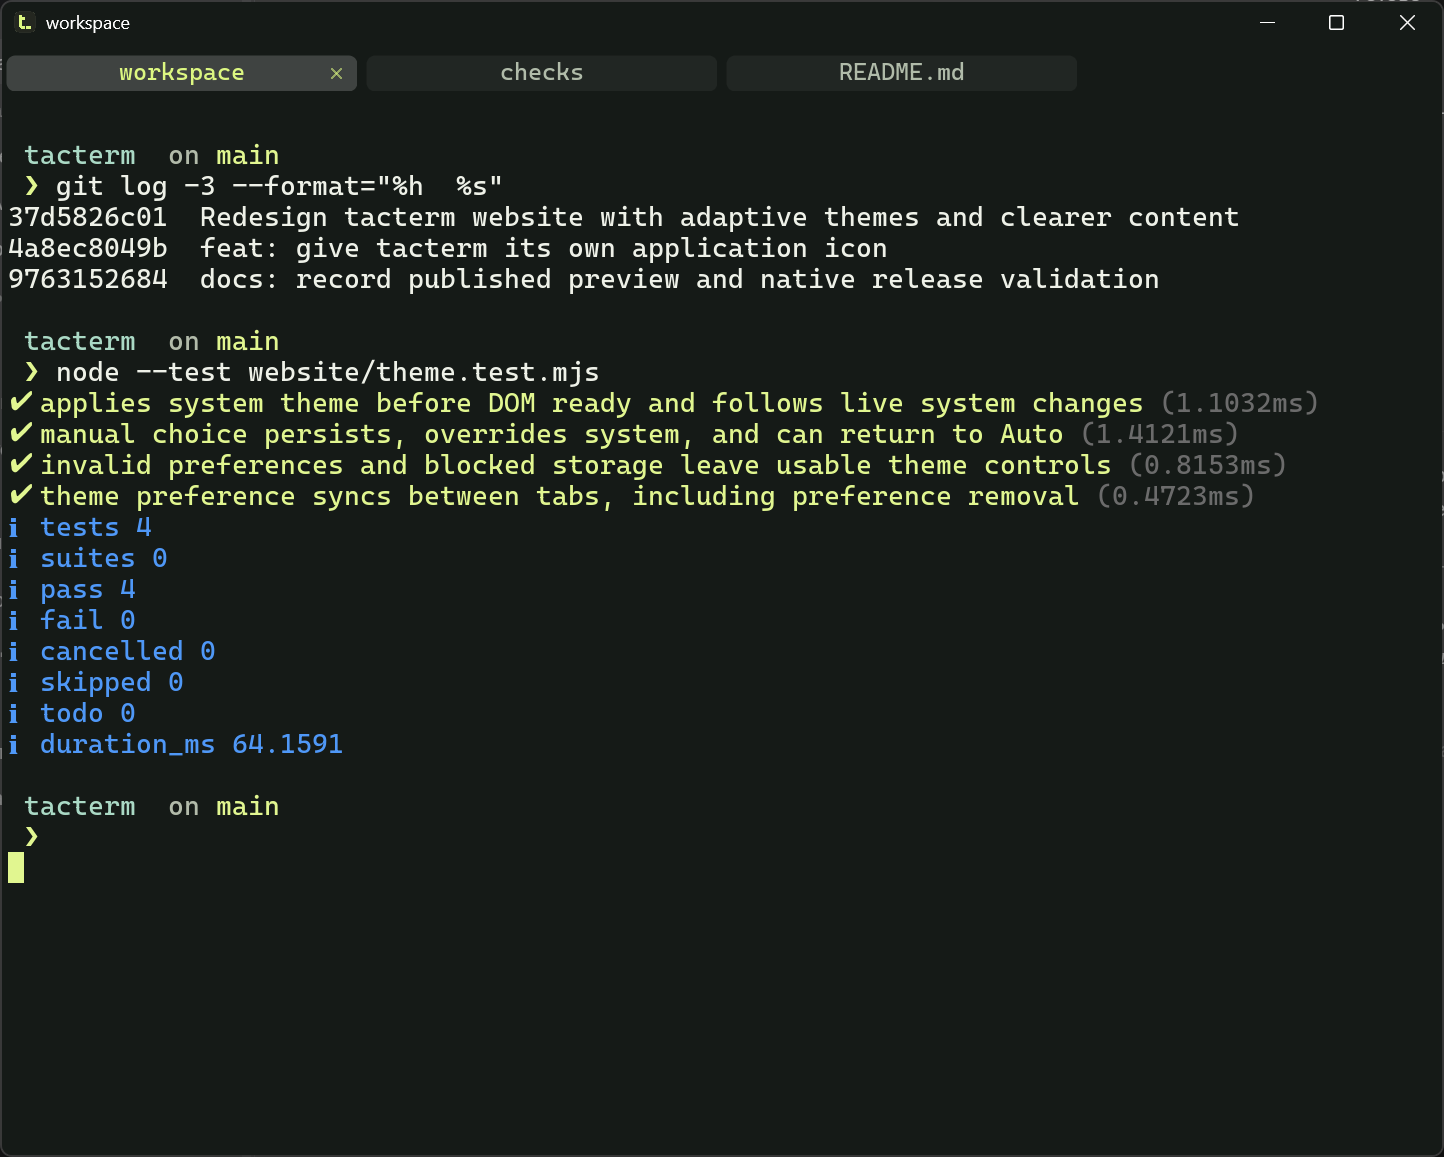
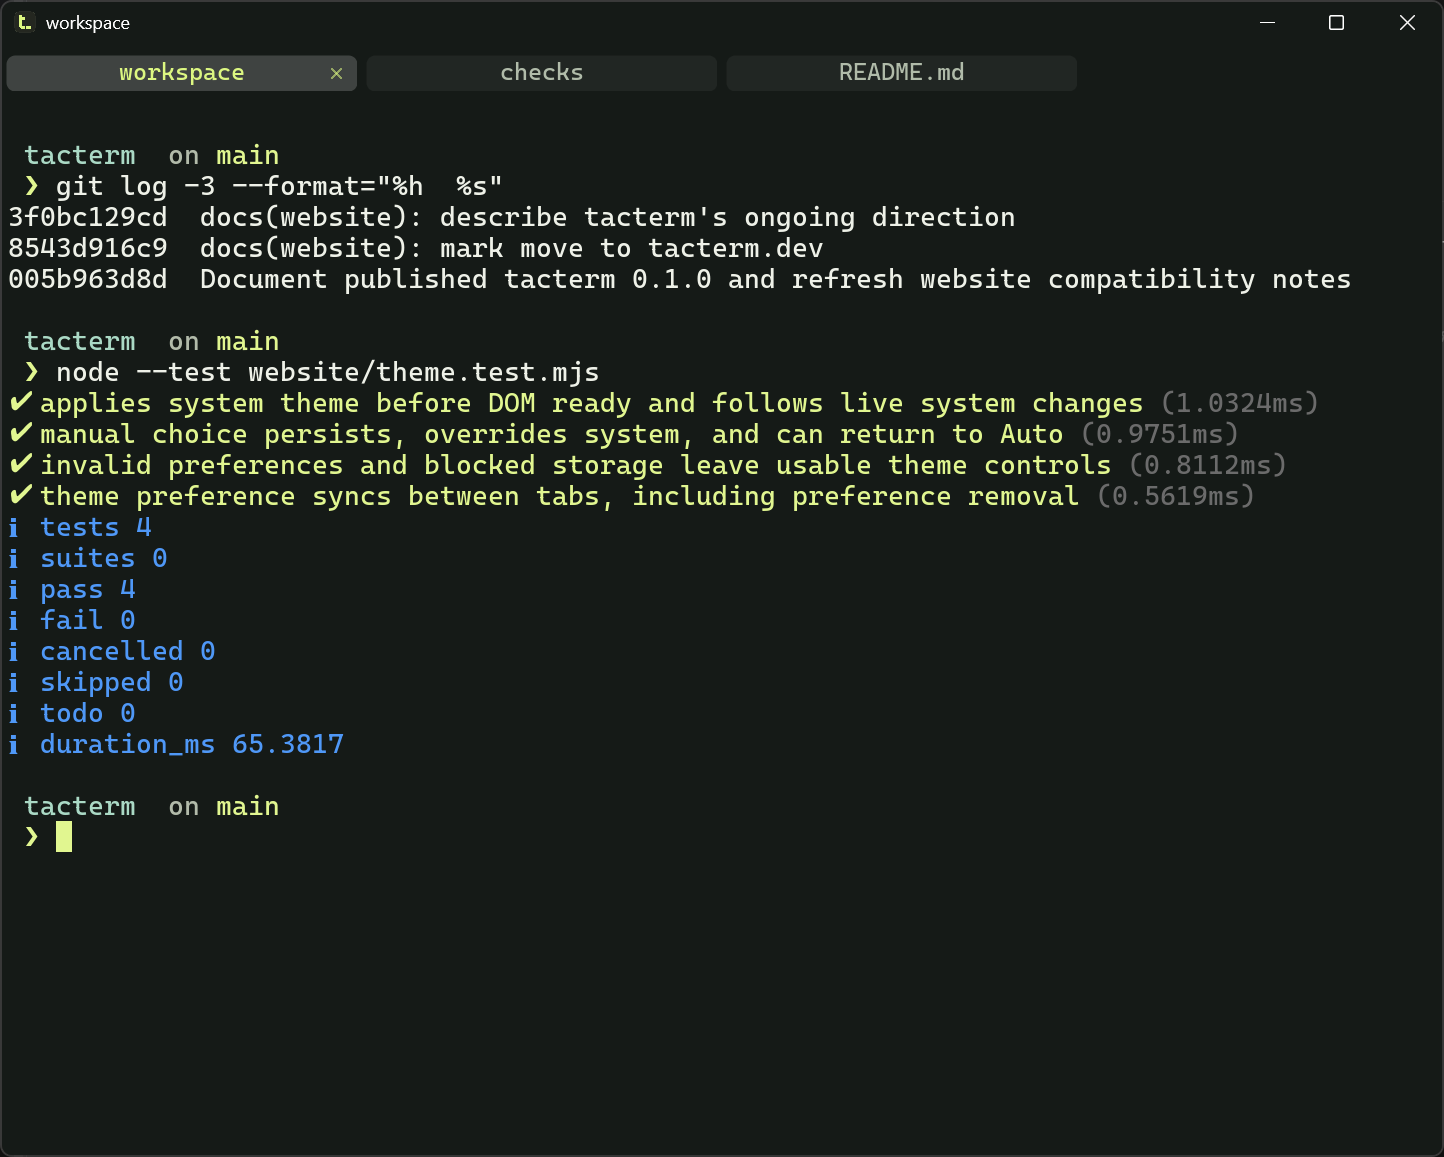
fix(website): recapture hero with cursor beside prompt

diff --git a/FORK_STATUS.md b/FORK_STATUS.md
@@ -135,7 +135,9 @@ navigation. This is a website-only change; it does not change native builds.
 The homepage's illustrative terminal was replaced with an actual Windows
 development-build screenshot showing three native tabs and a real theme-test
 run. The caption identifies the custom theme and development build, and the
-image can be opened at full size.
+image can be opened at full size. The capture was refreshed with the cursor
+beside the final prompt and no mouse pointer in the frame; the local demo
+script now omits the final prompt's trailing newline.
 The homepage now explains practical differences before downloads, with
 compatibility questions and source-build instructions following them. Concise
 editorial summaries link to this complete status document, which includes
